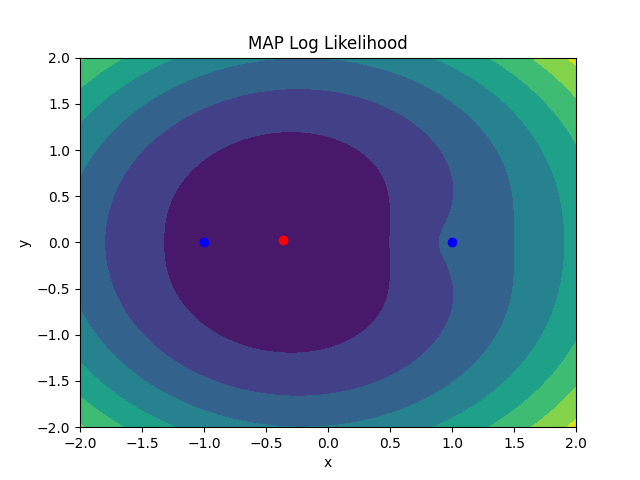
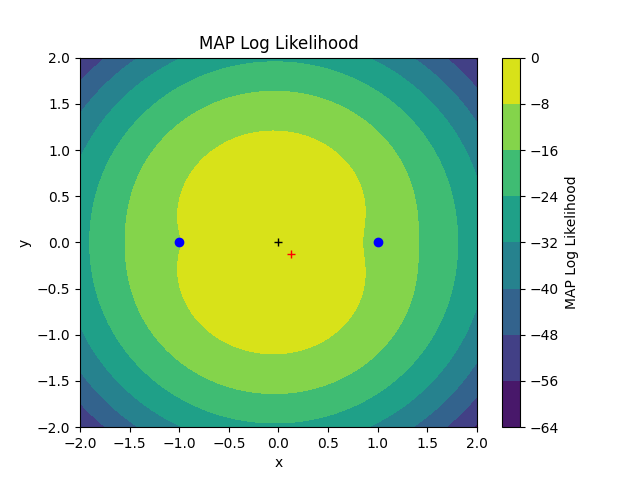
updated MAP estimation

diff --git a/HW3/MAPEstimation.py b/HW3/MAPEstimation.py
@@ -24,7 +24,7 @@ def MAPLogLikelihood(x, y, sigma_x, sigma_y, sigma, theta):
     cov = np.array([[sigma_x**2, 0], [0, sigma_y**2]])
     prior = np.dot(np.dot(theta.T, np.linalg.inv(cov)), theta)
 
-    return (1/(2*K))*(log_likelihood + prior)
+    return (-1/(2*K))*(log_likelihood + prior)
 
 for K in [1,2,3,4,40]:
     # print("K = ", K)
@@ -65,7 +65,11 @@ for K in [1,2,3,4,40]:
             F[i,j] = MAPLogLikelihood(x, y, sigma_x, sigma_y, sigma, np.array([X1[i,j], X2[i,j]]))
     plt.figure()
     cont = plt.contourf(X1, X2, F)
-    plt.plot(TruePos[0], TruePos[1], 'ro')
+    plt.plot(TruePos[0], TruePos[1], 'r+')
+    # plot colorbar
+    cbar = plt.colorbar(cont)
+    cbar.ax.set_ylabel('MAP Log Likelihood')
+    # plot center of the contour
     plt.plot(x[:,0], x[:,1], 'bo', label='Reference Vectors')
     plt.title('MAP Log Likelihood')
     plt.xlabel('x')
